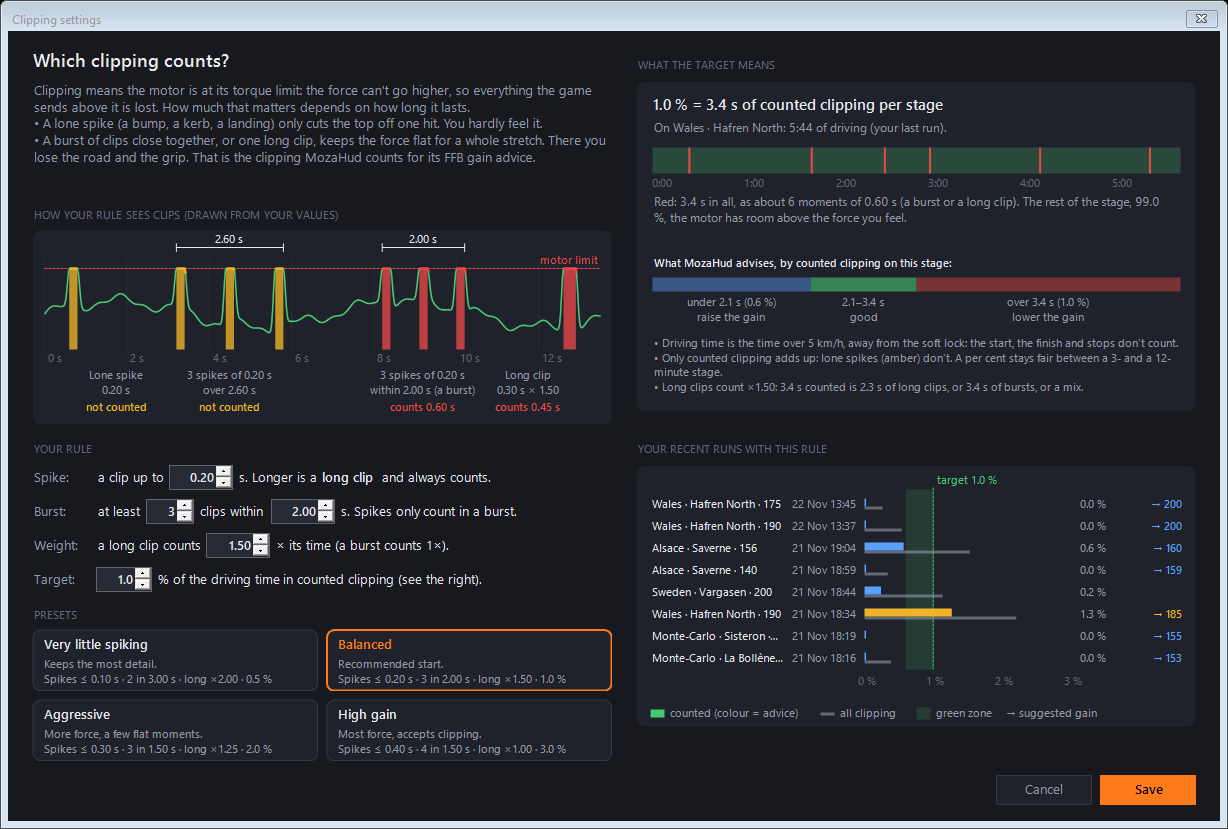
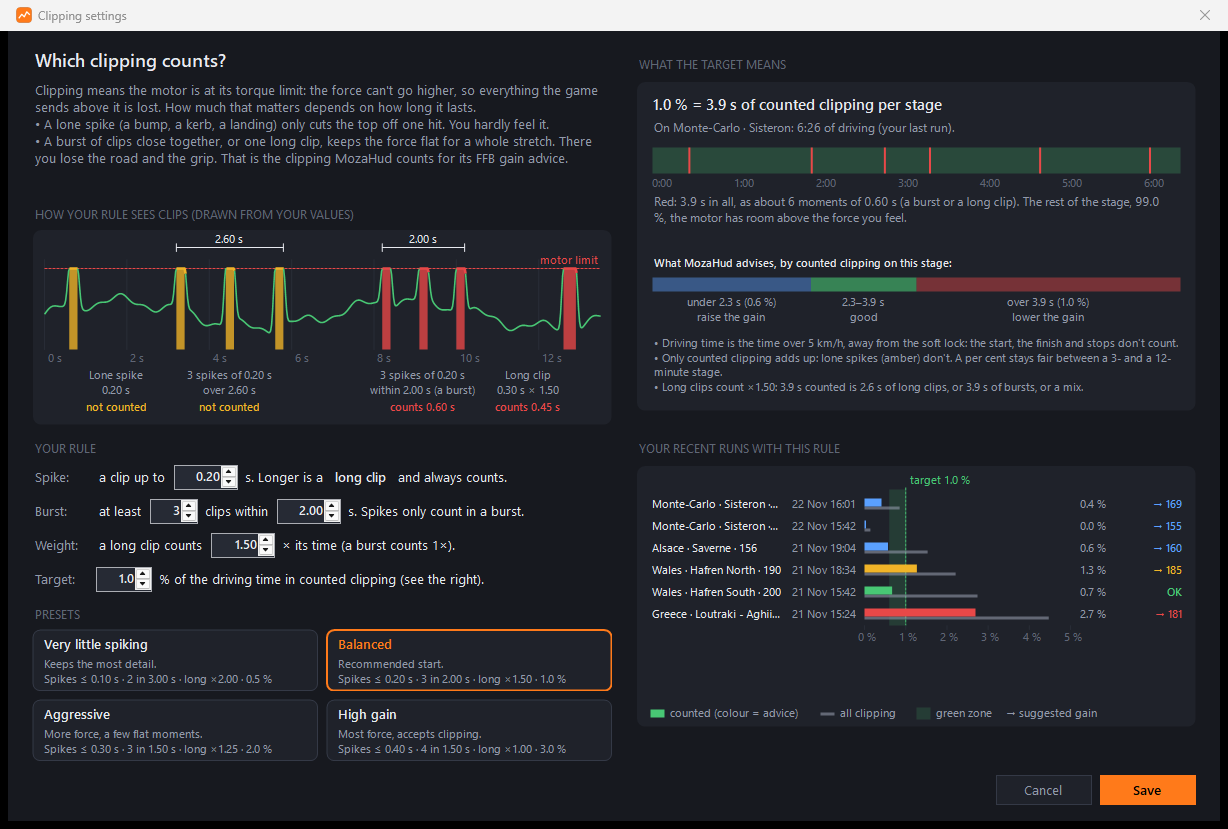
Refresh clipping rule documentation and screenshots

diff --git a/README.md b/README.md
@@ -11,7 +11,7 @@ MSI Afterburner / RivaTuner.
 > I'm not affiliated with MOZA Racing, the makers of Assetto Corsa Rally, MSI, RivaTuner or anyone else, and I'm not
 > paid or sponsored by anyone. See [Disclaimer](#disclaimer).
 
-![MozaHud after a stage on Monte-Carlo · Sisteron](docs/images/overview-too-strong.png)
+![MozaHud after Loutraki – Aghii Theodori, showing the gain recommendation, clipping figures and stage graphs](docs/images/overview-too-strong.png)
 
 ---
 
@@ -31,62 +31,77 @@ for every stage you drive and gives you a number to set.
 
 ### Every stage recorded, automatically
 
-Start a stage in AC Rally and MozaHud starts recording; cross the finish and it stops — no buttons. Each run gets the
-rally's flag, the car's logo, the date and your stage time. The last 100 runs are kept.
+Start a stage in AC Rally and MozaHud starts recording automatically. Each saved run shows the rally's flag,
+the car's logo, the date and your stage time. MozaHud keeps up to 100 runs for up to 60 days.
 
 ![Stage list with flags and car logos](docs/images/stage-list.png)
 
 ### A clear verdict after each stage
 
-Red means the motor was at its limit too often and you should lower the gain — MozaHud suggests the exact value.
+MozaHud compares **counted clipping** with your target. With the default **Balanced** rule, the green zone is
+**0.6–1.0%** of driving time. The analysis uses time at 5 km/h and above, with time at the wheel's rotation limit excluded.
 
-![Too strong: lower the FFB gain, 150 → 135](docs/images/advice-too-strong.png)
+**Red or amber advice** means counted clipping is above target. On Loutraki – Aghii Theodori, the run at gain
+**200** had **2.7%** counted clipping. MozaHud suggests **181**, with an estimated **0.8%**.
 
-Green means you're good. Blue means the opposite of red: the motor hardly reached its limit, so you're leaving feel on
-the table, and MozaHud suggests a higher gain. It works out the exact value (in steps of 1) from the torque of that
-run, so the next run lands just under your target.
+![Red advice to lower FFB gain from 200 to 181](docs/images/advice-too-strong.png)
 
-![Good: the FFB gain fits this stage](docs/images/advice-good.png)
+**Green advice** means you can keep the gain. On Hafren South, **0.7%** counted clipping falls in the Balanced
+zone even though all clipping totals **2.7%**.
 
-Not every clip counts. A lone spike on a kerb or bump only cuts the top off one hit, and you hardly feel it. Many clips
-close together, or one long clip, keep the force flat for a whole stretch, and that's where you lose the road. So
-MozaHud counts **long clips** (by default longer than 0.20 s) and **bursts** of spikes (at least 3 clips within
-2.00 s), with a target of 1 % of the driving time (green from 0.6 % up to it). On a 6-minute stage, 1 % is 3.6 s
-of counted clipping in all: about a dozen short flat moments spread over the stage. In the graph, counted clipping is
-red and lone spikes are amber.
+![Green advice to keep the gain on Hafren South with 0.7% counted clipping](docs/images/advice-good.png)
 
-The rule is up to you: the **Clipping rule** button (top right) opens the settings. You set the spike length, the
-burst, how much heavier a long clip counts than a burst, and the target, or pick a preset: *Very little spiking*, *Balanced* (the default), *Aggressive* or *High gain*.
-A picture drawn from your values shows what counts, another shows what the target means in seconds on your last
-stage, and your recent runs are judged live while you change it.
+**Blue advice** means there's room for more force. On Sisteron, **0.4%** counted clipping leaves room to go from
+**165** to **169**. MozaHud needs at least a minute of driving to suggest a higher gain. It recommends changes
+in whole gain points and estimates their effect from the recorded torque.
 
-![Clipping settings: what counts, the rule, and recent runs judged live](docs/images/clip-settings.png)
+![Blue advice to raise FFB gain from 165 to 169](docs/images/advice-raise.png)
 
-![Header with live values and the Allowed clipping setting](docs/images/header.png)
+### Choose which clipping counts
+
+Click **Clipping rule** at the top right. Choose **Very little spiking**, **Balanced** (the default),
+**Aggressive** or **High gain**, or set your own spike length, burst size and window, long-clip weight and target.
+
+![MozaHud header with live wheelbase readings, startup options and the Clipping rule button](docs/images/header.png)
+
+With **Balanced**:
+
+- A clip up to **0.20 s** is a spike. It counts only if it's part of a burst of **at least 3 clips within
+  2.00 s**, measured from the start of the first clip to the end of the last.
+- A longer clip always counts at **1.5×** its duration. For example, a **0.30 s** clip adds **0.45 s** to the
+  counted total. Spikes in a burst count at their actual duration.
+- The target is **1.0%** of driving time. On the **6:26** of driving shown below, that's about **3.9 s** of
+  counted clipping after applying the long-clip weight.
+
+As you edit the rule, the dialog redraws the example, translates the target into seconds for your latest run
+and previews how the rule would judge your recent runs. Click **Save** to apply it.
+
+![Clipping settings showing the Balanced rule, all four presets, the target in seconds and recent run verdicts](docs/images/clip-settings.png)
 
 ### See exactly where it clipped
 
-The torque graph shows the force on your wheel over the whole stage. Every moment the motor hit its limit gets a
-**red bar** — so you can see whether it's a few bumps or the whole hairpin section. Scroll to zoom in, hover for the
-details of that moment.
+The torque graph shows the force on your wheel over the whole stage. **Green** is normal torque, **red** is
+clipping that counts toward the verdict, and **amber** marks isolated spikes that the rule leaves out. Scroll
+to zoom, drag to move along the timeline, double-click to reset the view, and hover for details.
 
-![A whole stage: force on the wheel, red where it clipped](docs/images/graph-whole-stage.png)
+![Whole-stage torque and temperature graphs, with counted clipping in red and isolated spikes in amber](docs/images/graph-whole-stage.png)
 
-![Zoomed in: red bars where the motor hit its limit](docs/images/graph-zoom-clipping.png)
+![Zoomed torque graph showing isolated amber spikes followed by a red burst of counted clipping](docs/images/graph-zoom-clipping.png)
 
-Turning the wheel all the way to its end (the **soft lock**) also makes the motor push at full force — that's not
-your FFB clipping, so MozaHud shows it in **grey** and leaves it out of the verdict. It knows your base's rotation
-(e.g. 450°) by asking the base itself.
+The **soft lock** is where the motor pushes back when you turn the wheel to its rotation limit. MozaHud reads
+that limit from the base, shows soft lock in **grey**, and leaves it out of the verdict.
 
 ### The numbers that matter
 
-Clipping share, the **longest** clipping moment, the **average** length and how many there were, average and
-strongest force, soft-lock time and temperatures. Hover over any ⓘ for an explanation.
+**Counted clipping** drives the gain advice. **All clipping** shows the actual share of driving time spent at
+the limit, including isolated spikes. The tiles also show the longest clip, average clip length and number of
+clips, torque, soft-lock time, temperatures and gain.
 
-![Key figures](docs/images/key-figures.png)
+![Key figures for Loutraki, including 2.7% counted clipping, 4.5% all clipping and a longest clip of 0.30 s](docs/images/key-figures.png)
 
-Example from the stages above: at gain 150 the R5 clipped 5.4 % of the time, 49 times, the longest for half a second.
-At 135 that dropped to 2.3 %, 21 short taps of about 0.14 s — the force detail was back, and the verdict turned green.
+New recordings keep the individual torque readings, so MozaHud measures clip lengths to about **0.03 s**.
+Older recordings use the current clipping rule with their original **0.1 s** peak readings. If a recording
+repeatedly exceeded its saved torque limit, MozaHud uses the highest peak outside soft lock as its limit.
 
 ### Motor temperatures
 
@@ -95,10 +110,10 @@ working hard.
 
 ### One click to save it in StageSwitch
 
-If you use **[AC Rally StageSwitch](https://github.com/fbenniks/acr-mods-stageswitch)** (the companion app that sets the FFB gain per
-stage automatically), MozaHud can send it the suggested gain. You choose where it applies: just this car on this
-stage, this car on the whole rally, this stage for every car, or the whole rally for every car. Next time you load
-that stage, it's set.
+Keep both apps open, select a run with a suggested gain, and click **Apply in StageSwitch…**. You can adjust
+the value in the dialog and save it for this car on this stage, this car across the rally, the stage default,
+or every stage default in the rally. StageSwitch uses the saved gain when you load a matching stage. It can also
+apply it while you're on that stage. [AC Rally StageSwitch](https://github.com/fbenniks/acr-mods-stageswitch)
 
 ![Apply in StageSwitch: four choices](docs/images/apply-in-stageswitch.png)
 
@@ -113,9 +128,10 @@ MozaHud adds your wheelbase to it, in any game — not just AC Rally:
 | MOZA torque avg | The force on the wheel right now (Nm) |
 | MOZA torque peak | The strongest force in the last second (Nm) |
 | MOZA FFB load | That peak as % of what the base can do — 100 % means it's at the limit |
-| MOZA clipping | How much of the last second it was at the limit (%) |
+| MOZA clipping | How much of the last second the motor was at the limit (%) |
 
-You place and style them like any other Afterburner value: graph, number, colour, alarm.
+The clipping rule is for stage advice. The live overlay reports clipping over the last second. You can place
+and style the readings like any other Afterburner value: graph, number, colour, alarm.
 <!-- Overlay screenshot: save an in-game screenshot as docs/images/overlay-ingame.png and add:
 ![MozaHud values in the RivaTuner overlay](docs/images/overlay-ingame.png) -->
 
